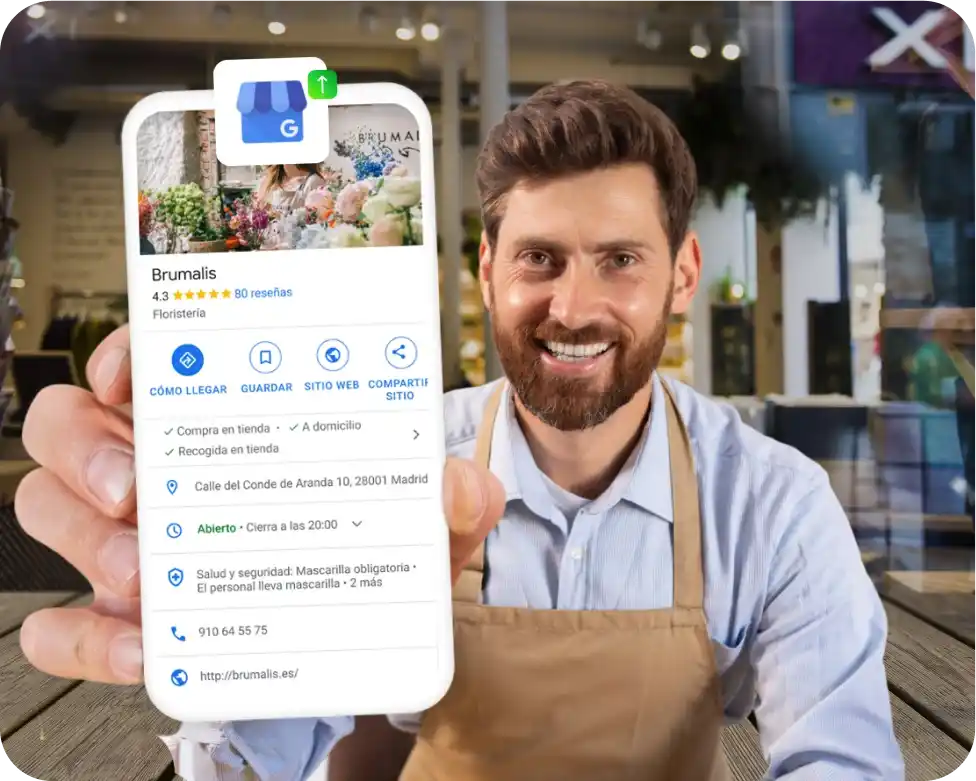
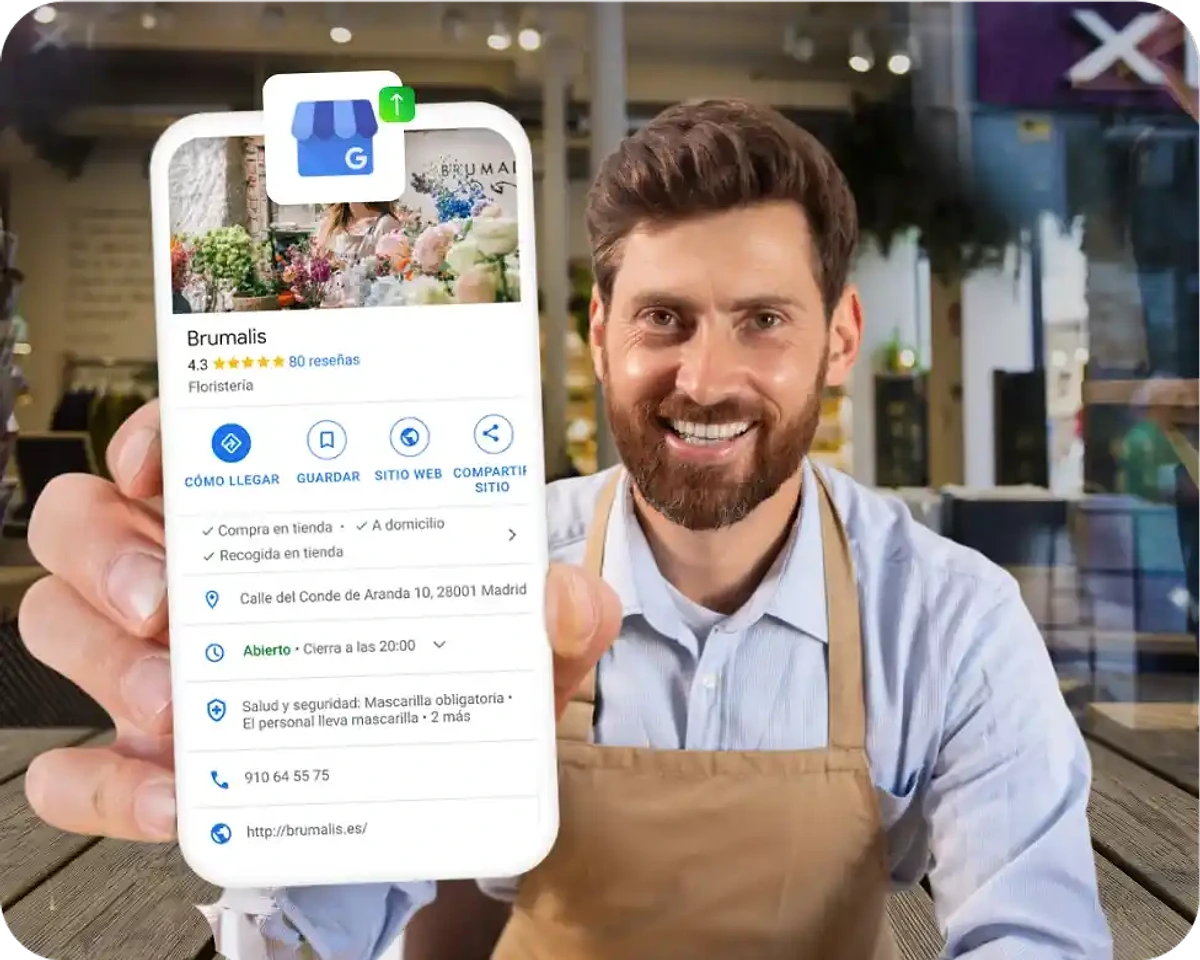
Improve image quality in the problem and process sections
Both sources were undersized for their slot. Each renders in a 538px
column, which needs 1076px on a retina display, but the originals were
976x781 and 800x450 — so the browser was upscaling them by 1.10x and
1.34x, and by 2x on a 3x phone.

Resampled both to 1200px wide with lanczos3 plus a restrained unsharp
mask, so the interpolation happens once with a good kernel instead of
every time a browser stretches them. Also raised the encode quality from
the default 75 to 90: these are already-lossy WebP sources, and a second
lossy pass at 75 was visibly softening them.

This raises apparent sharpness but cannot add real detail — the source
resolution is still the ceiling. Higher-resolution originals remain the
only way to genuinely fix these two.

diff --git a/src/components/home/ProblemSection.tsx b/src/components/home/ProblemSection.tsx
@@ -28,6 +28,10 @@ export function ProblemSection() {
             alt={problem.image.alt}
             width={problem.image.width}
             height={problem.image.height}
+            // The source is upscaled from a small original, so it is already
+            // near its detail ceiling — a second lossy pass at the default q=75
+            // was visibly softening it. q=90 costs ~20KB and removes that.
+            quality={90}
             sizes="(min-width: 1024px) 540px, 100vw"
             className="h-auto w-full rounded-image object-cover"
           />

diff --git a/src/data/home.ts b/src/data/home.ts
@@ -48,8 +48,8 @@ export const problem = {
   image: {
     src: "/images/google-listing-suspended.webp",
     alt: "A smiling shop owner holding a phone showing their live Google Business Profile",
-    width: 976,
-    height: 781,
+    width: 1200,
+    height: 960,
   },
 } as const;
 
@@ -82,8 +82,8 @@ export const process = {
   image: {
     src: "/images/reinstatement-consultation.webp",
     alt: "Two shop owners reviewing their reinstatement case on a tablet",
-    width: 800,
-    height: 450,
+    width: 1200,
+    height: 675,
   },
   steps: [
     {

diff --git a/src/components/home/ProcessSection.tsx b/src/components/home/ProcessSection.tsx
@@ -18,6 +18,7 @@ export function ProcessSection() {
             alt={process.image.alt}
             width={process.image.width}
             height={process.image.height}
+            quality={90}
             sizes="(min-width: 1024px) 540px, 100vw"
             className="h-auto w-full rounded-image object-cover"
           />
